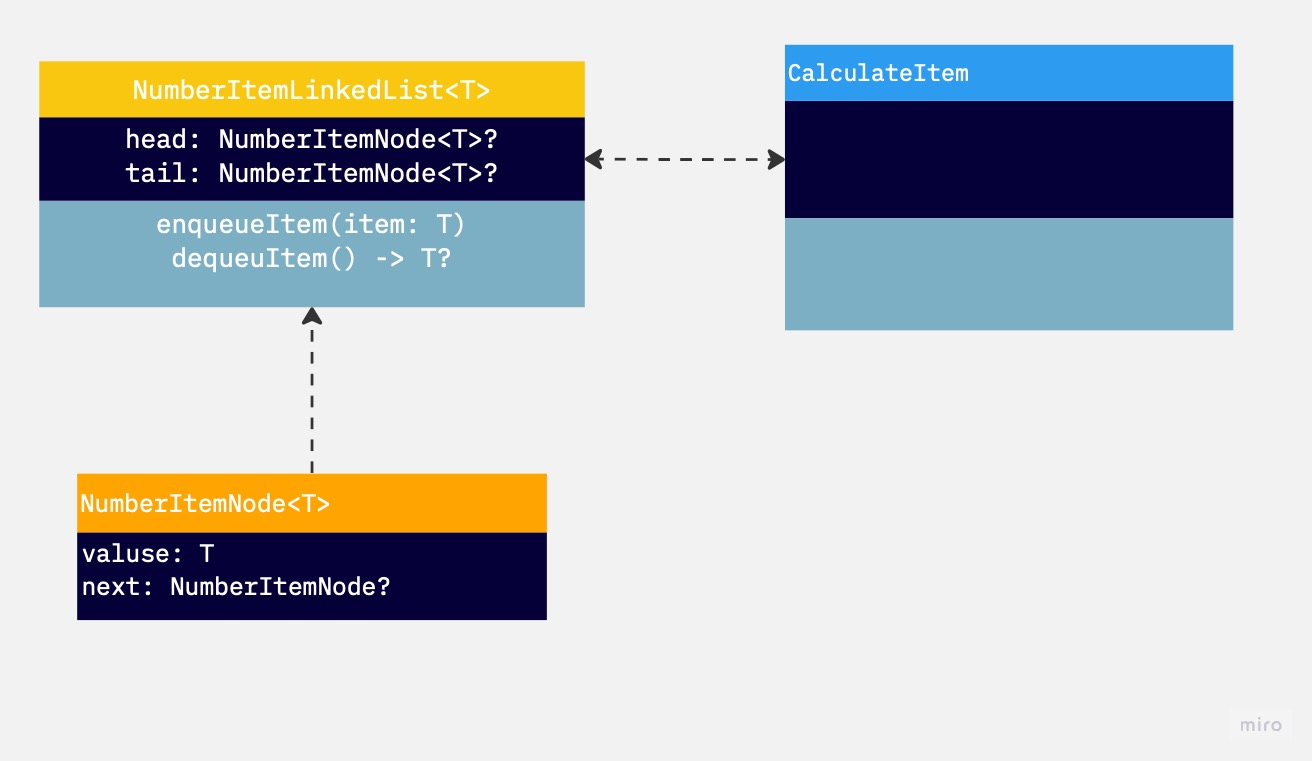
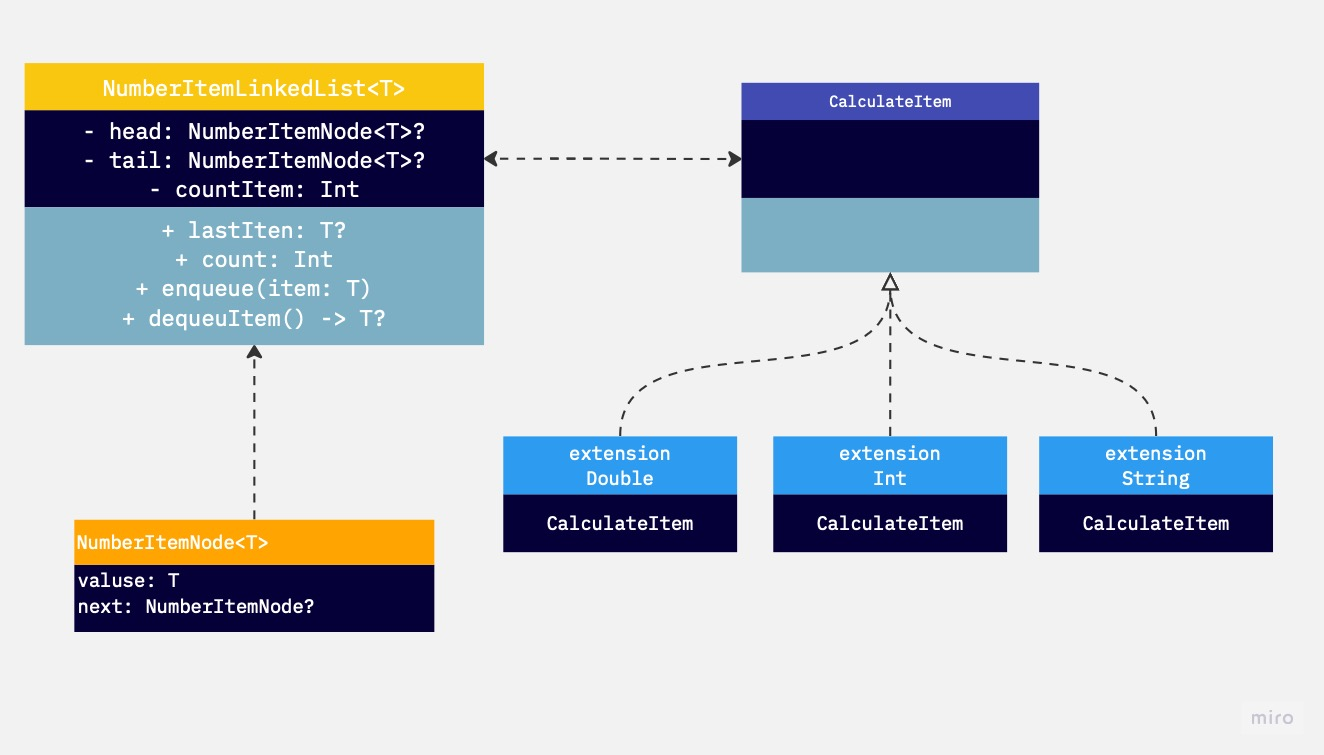
refactor: extension -> UML수정진행

diff --git a/Calculator/Calculator/Model/CalculatorItemQueue.swift b/Calculator/Calculator/Model/CalculatorItemQueue.swift
@@ -14,7 +14,7 @@ final class CalculatorItemNode<T> {
     }
 }
 
-final class CalculatorItemQueue<T>: CalculateItem {
+final class CalculatorItemQueue<T: CalculateItem> {
     private var headItem: CalculatorItemNode<T>?
     private var tailItem: CalculatorItemNode<T>?
     private var countItem: Int = 0
